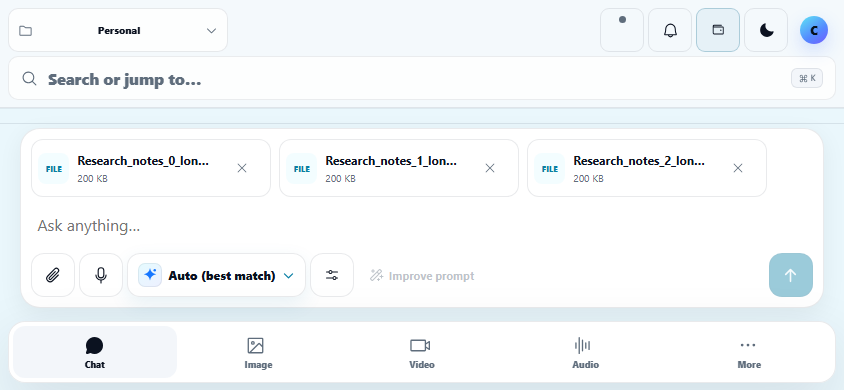
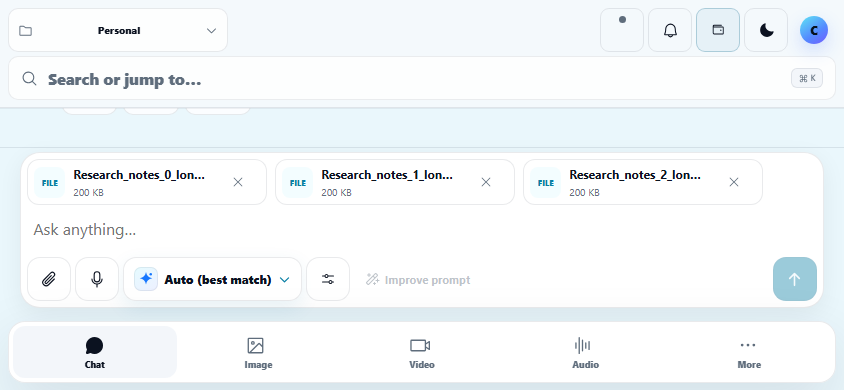
fix: keep Chat history reachable with expanded short-height drafts

diff --git a/tests/responsive/chat.spec.ts b/tests/responsive/chat.spec.ts
@@ -5,12 +5,19 @@ const test=safeTest.extend<{chatDiagnostics:void}>({chatDiagnostics:[async({page
  page.on('request',r=>{if(new URL(r.url()).pathname.startsWith('/api/'))apis.push(r.url())});page.on('response',r=>{if(r.status()>=400)resources.push(`${r.status()} ${new URL(r.url()).pathname}`)});
  await use();expect(errors,'runtime/hydration errors').toEqual([]);expect(apis,'synthetic Chat must not access application APIs').toEqual([]);expect(resources,'failed resources').toEqual([]);
  },{auto:true}]});
-import type {Page} from '@playwright/test';
+import type {Page,TestInfo} from '@playwright/test';
 async function openChat(page:Page,state='welcome',theme='light'){
  await page.addInitScript(theme=>localStorage.setItem('amh-theme',theme),theme);
  await page.goto(`/responsive-fixture?chat=${state}`,{waitUntil:'networkidle'});
  await expect(page.locator('.chat-workspace')).toHaveAttribute('data-ready','true');
  await expect(page.locator('.theme-toggle')).toHaveAttribute('aria-label',/Switch to/);
+}
+async function compactDraftBudget(page:Page,info:TestInfo,state:string){
+ const input=page.getByRole('textbox',{name:'Message',exact:true});await input.fill(Array(12).fill('A long draft in a short viewport').join('\n'));
+ const budget=await page.evaluate(()=>{const rect=(s:string)=>document.querySelector(s)!.getBoundingClientRect(),nav=document.querySelector('.mobile-nav')!;return {bottom:rect('.composer-wrap').bottom,navTop:nav.getClientRects().length?rect('.mobile-nav').top:innerHeight,history:rect('.chat-layout-body').height}});
+ expect(budget.bottom,'expanded composer stays above navigation').toBeLessThanOrEqual(budget.navTop+1);expect(budget.history,'history remains reachable above expanded drafts and secondary content').toBeGreaterThanOrEqual(24);
+ await expect(input).toBeInViewport();await expect(page.getByRole('button',{name:'Send message'})).toBeInViewport();
+ if([320,844].includes(page.viewportSize()!.width)&&page.viewportSize()!.height===390){const path=info.outputPath(`expanded-${state}.png`);await page.screenshot({path,animations:'disabled',style:'nextjs-portal{visibility:hidden}'});await info.attach(`expanded-${state}`,{path,contentType:'image/png'})}
 }
 for(const theme of ['light','dark'])test(`chat ${theme}: welcome, composer budget and real controls`,async({page},info)=>{
  const errors:string[]=[],apis:string[]=[];page.on('pageerror',e=>errors.push(e.message));page.on('console',m=>{if(m.type()==='error')errors.push(m.text())});page.on('request',r=>{if(new URL(r.url()).pathname.startsWith('/api/'))apis.push(r.url())});
@@ -71,17 +78,20 @@ test('streaming-like updates respect readers and Stop remains usable',async({pag
  await page.getByRole('button',{name:'Stop generation'}).click();await expect(page.getByRole('button',{name:'Send message'})).toBeVisible();await expect(page.getByText('Response interrupted · Retry available',{exact:true})).toBeVisible();
 });
 
-test('attachments and long filenames stay contained; reduced height keeps composer reachable',async({page})=>{
+test('attachments and long filenames stay contained; reduced height keeps composer reachable',async({page},info)=>{
  await openChat(page,'attachments');await expect(page.locator('.attachment-card')).toHaveCount(3);const remove=page.getByRole('button',{name:/Remove Research_notes_0_/});await remove.click();await expect(page.locator('.attachment-card')).toHaveCount(2);
  const size=page.viewportSize()!;await page.setViewportSize({width:size.width,height:Math.max(390,size.height-300)});const input=page.getByRole('textbox',{name:'Message',exact:true});await input.fill('Typing with a reduced viewport');await expect(input).toBeInViewport();await expect(page.getByRole('button',{name:'Send message'})).toBeInViewport();
  expect(await page.evaluate(()=>document.documentElement.scrollWidth<=innerWidth+1)).toBe(true);
+ await compactDraftBudget(page,info,'attachments');
 });
 
-test('loading, pending billing, interrupted and error presentation',async({page})=>{
+test('loading, pending billing, interrupted and error presentation',async({page},info)=>{
  await openChat(page,'loading');await expect(page.getByText('Understanding your request',{exact:true}).or(page.getByText('Sample model is responding',{exact:true}))).toBeVisible();await expect(page.getByRole('button',{name:'Stop generation'})).toBeInViewport();await page.getByRole('textbox',{name:'Message',exact:true}).focus();await page.keyboard.press('Escape');await expect(page.getByRole('button',{name:'Send message'})).toBeVisible();
  await openChat(page,'pending');await expect(page.getByText('Sample model · Billing pending',{exact:true})).toBeVisible();
  await openChat(page,'interrupted');await expect(page.getByText('Response interrupted · Retry available',{exact:true})).toBeVisible();
  await openChat(page,'error');await expect(page.getByRole('alert').filter({hasText:'Request not completed'})).toContainText('Synthetic connection failure');await expect(page.getByRole('textbox',{name:'Message',exact:true})).toHaveValue('My preserved draft');
+ const size=page.viewportSize()!;await page.setViewportSize({width:size.width,height:390});await compactDraftBudget(page,info,'error');
+ const alert=page.getByRole('alert').filter({hasText:'Request not completed'});await alert.focus();await expect(alert).toBeFocused();await page.keyboard.press('ArrowDown');
 });
 test('chat discovery, message actions, local attachment selection and voice presentation',async({page})=>{
  await openChat(page);

diff --git a/src/components/chat-workspace.css b/src/components/chat-workspace.css
@@ -90,7 +90,7 @@
 .responsive-workspace .chat-workspace .composer-hint { margin:6px 0 0;font-size:10px;line-height:1.4;text-align:center;color:var(--muted); }
 .responsive-workspace .chat-workspace .chat-response-status { margin-top:4px;font-size:11px;color:var(--muted); }
 .responsive-workspace .chat-workspace .chat-response-status:empty { display:none; }
-.responsive-workspace .chat-workspace .error-box { max-height:84px;overflow:auto;margin-top:8px;padding:10px;font-size:12px;overflow-wrap:anywhere; }
+.responsive-workspace .chat-workspace .error-box { display:block;max-height:84px;overflow:auto;margin-top:8px;padding:10px;font-size:12px;line-height:1.5;overflow-wrap:anywhere; }
 .responsive-workspace .chat-workspace .voice-recording-status { display:flex;align-items:center;flex-wrap:wrap;gap:6px;font-size:11px; }
 .responsive-workspace .chat-workspace .voice-recording-status button { min-height:44px; }
 .responsive-workspace .chat-workspace :is(button,a,input,textarea,[tabindex]):focus-visible { outline:2px solid var(--accent);outline-offset:2px; }
@@ -127,7 +127,11 @@
   .responsive-workspace .chat-workspace .empty-title { font-size:28px; }
   .responsive-workspace .chat-workspace .chat-home-hero { padding:0; }
   .responsive-workspace .chat-workspace .composer-wrap { padding-block:4px; }
-  .responsive-workspace .chat-workspace .chat-input { max-height:72px; }
+  .responsive-workspace .chat-workspace .chat-input { max-height:44px; }
+  .responsive-workspace .chat-workspace .composer { padding:6px; }
+  .responsive-workspace .chat-workspace .attachment-card { padding-block:0; }
+  .responsive-workspace .chat-workspace .attachment-strip { padding-bottom:4px; }
+  .responsive-workspace .chat-workspace .error-box { max-height:48px; }
   .responsive-workspace .chat-workspace .composer-hint { display:none; }
 }
 @media (prefers-reduced-motion:reduce) {

diff --git a/src/components/chat-workspace.tsx b/src/components/chat-workspace.tsx
@@ -152,7 +152,7 @@ export function ChatWorkspace({messages,busy,activeModelName,exact,popularModels
       </form>
       <div className="chat-response-status" role="status" aria-live="polite">{busy ? "Responding — use Stop to cancel." : privateMode ? "Private chat · conversation is not saved" : ""}</div>
       <p id="chat-composer-hint" className="composer-hint">Enter to send · Shift + Enter for a new line · Esc to stop</p>
-      {error && <div className="soft-card small error-box" role="alert"><strong>Request not completed.</strong> {error} <span>Your prompt is still here.</span></div>}
+      {error && <div className="soft-card small error-box" role="alert" tabIndex={0}><strong>Request not completed.</strong> {error} <span>Your prompt is still here.</span></div>}
     </div>
     <ModelPicker models={models} value={modelId} onChange={(value) => { setModelId(value); if (value) setMode("auto"); }} open={pickerOpen} onOpenChange={setPickerOpen} />
   </div>;

diff --git a/docs/mobile-phase3/README.md b/docs/mobile-phase3/README.md
@@ -49,7 +49,7 @@ The 320px toolbar now explicitly clears an inherited max-width so its four tools
 | Chat components, helper and test lint | PASS; empty `scoped-lint.log` means exit 0 with no diagnostics. New capture/production scripts also lint cleanly. |
 | Full repository lint | **FAIL: 2 pre-existing LoginForm set-state-in-effect errors, 14 existing warnings**; `full-repository-lint.log`. These files/causes were not changed by Chat work. |
[1 lines of base64/hex data omitted]
-| Local focused browser runs | **36 passed** stable Chat checks; **9 passed** final discovery/welcome checks; **6 passed** compact toolbar checks. These overlap and are not added to the full matrix count. `local-browser-runs.json` preserves actual stats and earlier exploratory failures. |
+| Local focused browser runs | **36 passed** stable Chat checks; **9 passed** final discovery/welcome checks; **6 passed** compact toolbar checks; **8 passed** expanded-draft short-height checks. These overlap and are not added to the full matrix count. `local-browser-runs.json` preserves actual stats and earlier exploratory failures. |
 | Approved visual comparison | **12 generated and reviewed, then 12 comparison passes**, both engines × 390/768/1366 × light/dark. `visual-review.png` is the inspected contact sheet; references live in `tests/responsive/__screenshots__/win32/*/phase3-welcome-*.png`. |
 | Production React components | **30 passed**, both engines × 390×844/844×390/1366×768 × five states; `production/results.json`, runtime log/screenshots and computed styles. Uses production React with minification disabled, not Next optimized bundle equivalence. |
 | Actual Next production rendering / fixture guards | **30 passed**, both engines × phone/tablet/desktop: 18 public rendering checks plus 12 fixture-denial checks; `next-production/results.json` and screenshots. Opt-in was enabled on the production server, yet both fixture URLs returned 404. |
@@ -62,9 +62,11 @@ All 14 viewport sizes and both engines remain configured, including 900/901 brea
 
 Reviewed the 12 theme/engine/viewport welcome references plus the final 320px welcome/attachments, 390px controls/long Markdown, 844px landscape and 768/1366px layouts as actual images. Mobile controls remain one row; cards/messages scroll above the composer; code/table content remains locally scrollable. The modal backdrop is above mobile navigation (pointer hit-test returns its scrim). Short landscape prioritizes ticker and composer while welcome cards remain reachable by history scrolling. At 320px welcome copy/cards require scrolling; the composer remains in view.
 
-Widths in evidence filenames map to 320×568, 390×844, 844×390, 768×1024 and 1366×768. `before/` has 10 captures; `after/` has 16 final captures. `production/` includes six component screenshots and `next-production/` two public screenshots. The production screenshot named welcome is taken after a local synthetic send, deliberately covering populated rendering. Before/after fixture model names and balances are synthetic, not production account data.
+Widths in evidence filenames map to 320×568, 390×844, 844×390, 768×1024 and 1366×768. `before/` has 10 captures; `after/` has 16 main captures plus eight explicitly named expanded-draft captures at 320×390 / 844×390. `production/` includes six component screenshots and `next-production/` two public screenshots. The production screenshot named welcome is taken after a local synthetic send, deliberately covering populated rendering. Before/after fixture model names and balances are synthetic, not production account data.
 
 The incomplete first smoke run is not a pass. The subsequent exploratory recheck had **15 passed / 3 failed** (the streaming reading-position race and a locator matching Next's route announcer); they were repaired and superseded by the stable/final runs. The first discovery run used an over-specific model accessible name before the label correction. No failing comparison was approved by overwriting an existing baseline. Final screenshot refreshes replace implementation-stage `after/` evidence while preserving `before/` and approved comparison references.
+
+The initial full green matrix did not combine expanded drafts with secondary composer content at very short heights. A subsequent geometry probe exposed P3-C07: history collapsed to zero, with error content below navigation. `short-height-edge-before.log` and `short-height-edge-after.log` preserve measured geometry; their generic eight-scenario completion lines are not layout acceptance assertions. The focused browser regression adds actual assertions for at least 24px of history, composer/navigation separation and reachable input/Send, plus keyboard focus on the locally scrollable error. It passed eight cases, with screenshots. The production component harness also asserts this combination in its 844×390 attachment/error cases. Follow-up Linux runs on the final implementation are available in PR #149 Checks.
 
 ## Continuation and acceptance boundary
 

diff --git a/docs/mobile-responsive-audit.md b/docs/mobile-responsive-audit.md
@@ -12,6 +12,7 @@ The live inventory remains **32 source pages / 42 HTTP handlers**, now **16 styl
 | P3-C04: composer overlay stacking | Screenshot review exposed a settings backdrop below the shared mobile navigation. Chat controls now portal to body and share focus/scroll/Escape handling. PremiumSelect consumes Escape only when its own list is open. |
 | P3-C05: long content and readability | Production Markdown is memoized by content; code and GFM tables have named focusable local scroll regions. Long prose/URLs wrap, mobile avatars yield space, assistant answers use available width, and message actions remain reachable. |
 | P3-C06: feedback and discovery | Welcome retains dynamic model data and all starter actions. The ticker pauses on hover/focus and stops for reduced motion. Pending billing, empty/loading/interrupted/error states keep their existing values; changing response status is concise, without live-announcing every timer tick. |
+| P3-C07: expanded drafts plus secondary content at short heights | A final combined-state probe found zero history height and an error banner below navigation at 320×390. Below 481px height, the textarea uses one internally scrollable line, attachment cards keep 44px controls with less padding, and the focusable error region scrolls within 48px. Both engines retain 25px history for the error case and 39px for attachments at 320×390; regression assertions require at least 24px and navigation separation. |
 
 `production/computed-styles.json` records the actual computed shell, history, composer, toolbar and textarea properties in both engines at phone, landscape and desktop sizes. The owning declarations are in `chat-workspace.css`; source order alone was not used as visual proof. Eleven selector groups requiring the unused exact `.chat-page` class were removed and archived. Globals still contains **835 media/container conditions and 766 repeated exact selector/condition groups**: this is remaining debt, not a claim that all are defects. Phase 2's synthetic `premium-chat-page` compatibility case is preserved. No global stylesheet rewrite or artificial document clipping was introduced.
 

diff --git a/docs/mobile-responsive-test-matrix.md b/docs/mobile-responsive-test-matrix.md
@@ -11,6 +11,7 @@ Both Chromium and WebKit use **320×568, 360×800, 375×812, 390×844, 430×932,
 | Models / overlays | Real ModelPicker search, disabled unavailable result, selection, focus return, Escape and Ctrl+K exclusivity; project/tier selection and settings focus containment; privacy/reasoning/enhancement reachability. |
 | Conversation | Long Markdown headings/lists/quote/URLs/unbroken text, focusable local code/table scrolling, draft-preserved history position, Latest, explicit new submission and synthetic streaming/Stop. |
 | Files / actions / feedback | Long attachment names, local file picker, removal, reduced viewport, local edit/retry/branch/voice presentation, loading, pending billing, interrupted response and preserved error draft. No upload/microphone/provider/billing E2E claim. |
+| Combined short-height states | Expanded 12-line drafts with attachments or errors at a reduced viewport: composer above navigation, history at least 24px, input/Send in view and error region keyboard-focusable. Eight targeted cases at 320×390 / 844×390 passed; the assertions also run throughout the 28-project matrix. |
 | Diagnostics | Every Chat case rejects console/runtime/hydration errors, failed resources and any `/api/` request. Shared suite additionally retains external/mutation guards and production fixture gating. |
 | Visual references | 12 reviewed Windows welcome references, then 12 comparison passes at both engines × 390/768/1366 × light/dark. Opt in with `PW_CHAT_VISUAL=1`; never compare Windows snapshots to Linux or regenerate to hide a failure. Long content/attachments/controls have reviewed screenshot evidence, without claimed visual baseline comparisons. |
 | Production | 30 production-React component scenarios (both engines × phone/landscape/desktop × five states), plus 30 actual local Next production public-render/fixture-denial checks. The component bundle uses production React but does not claim Next authenticated E2E or optimized chunk equivalence. |
